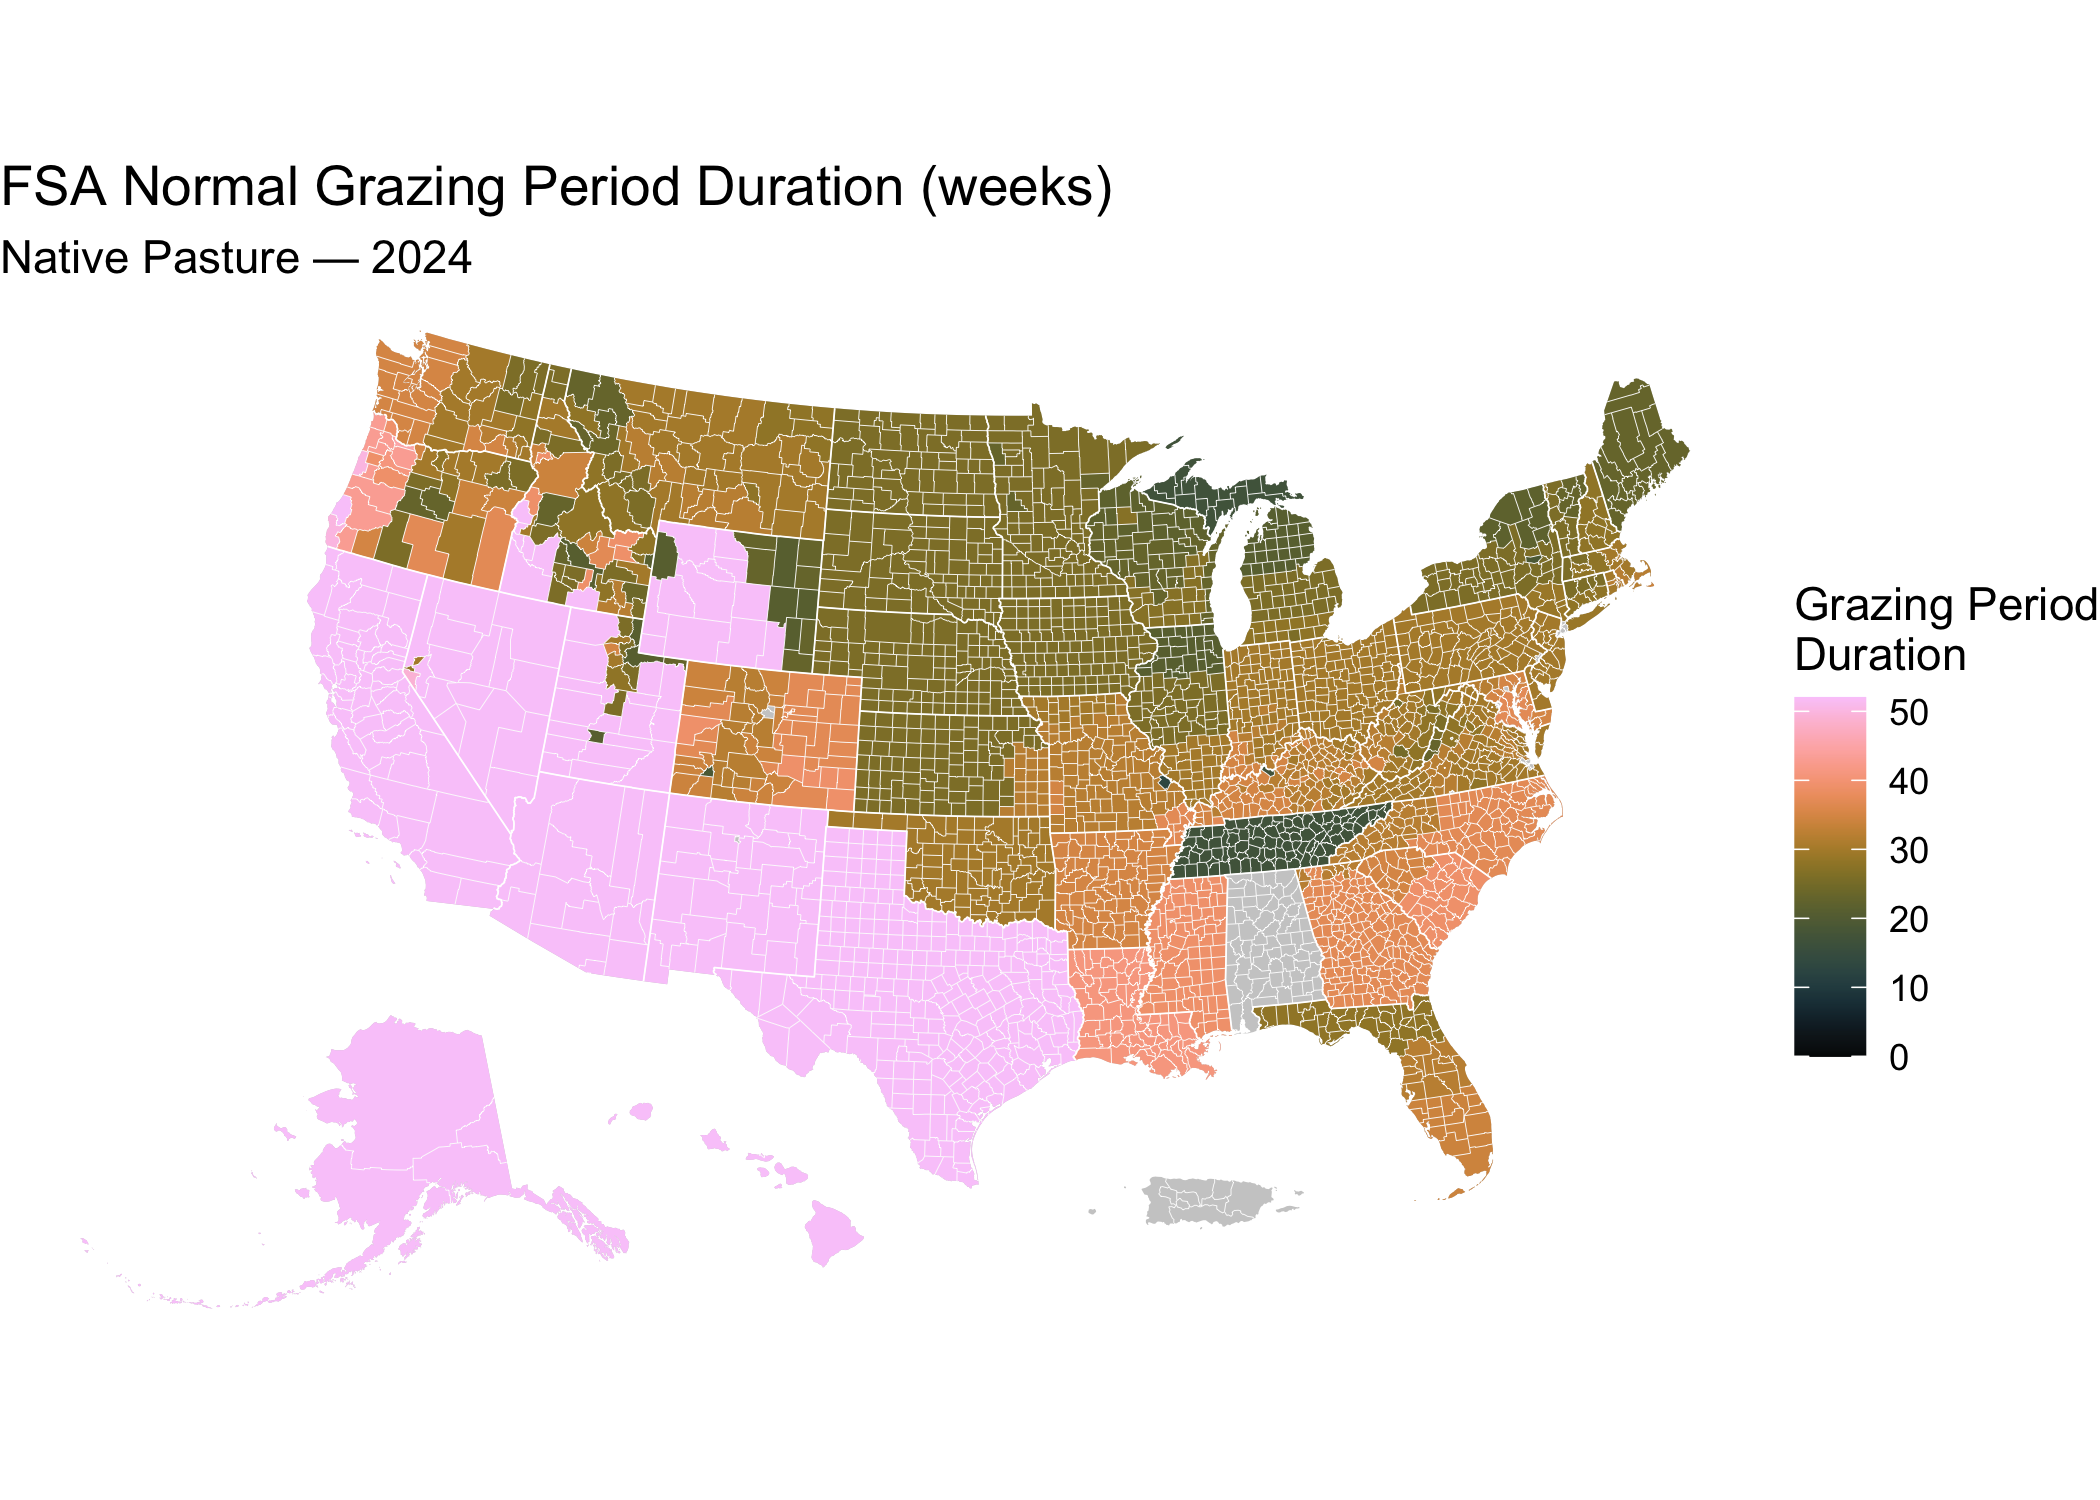
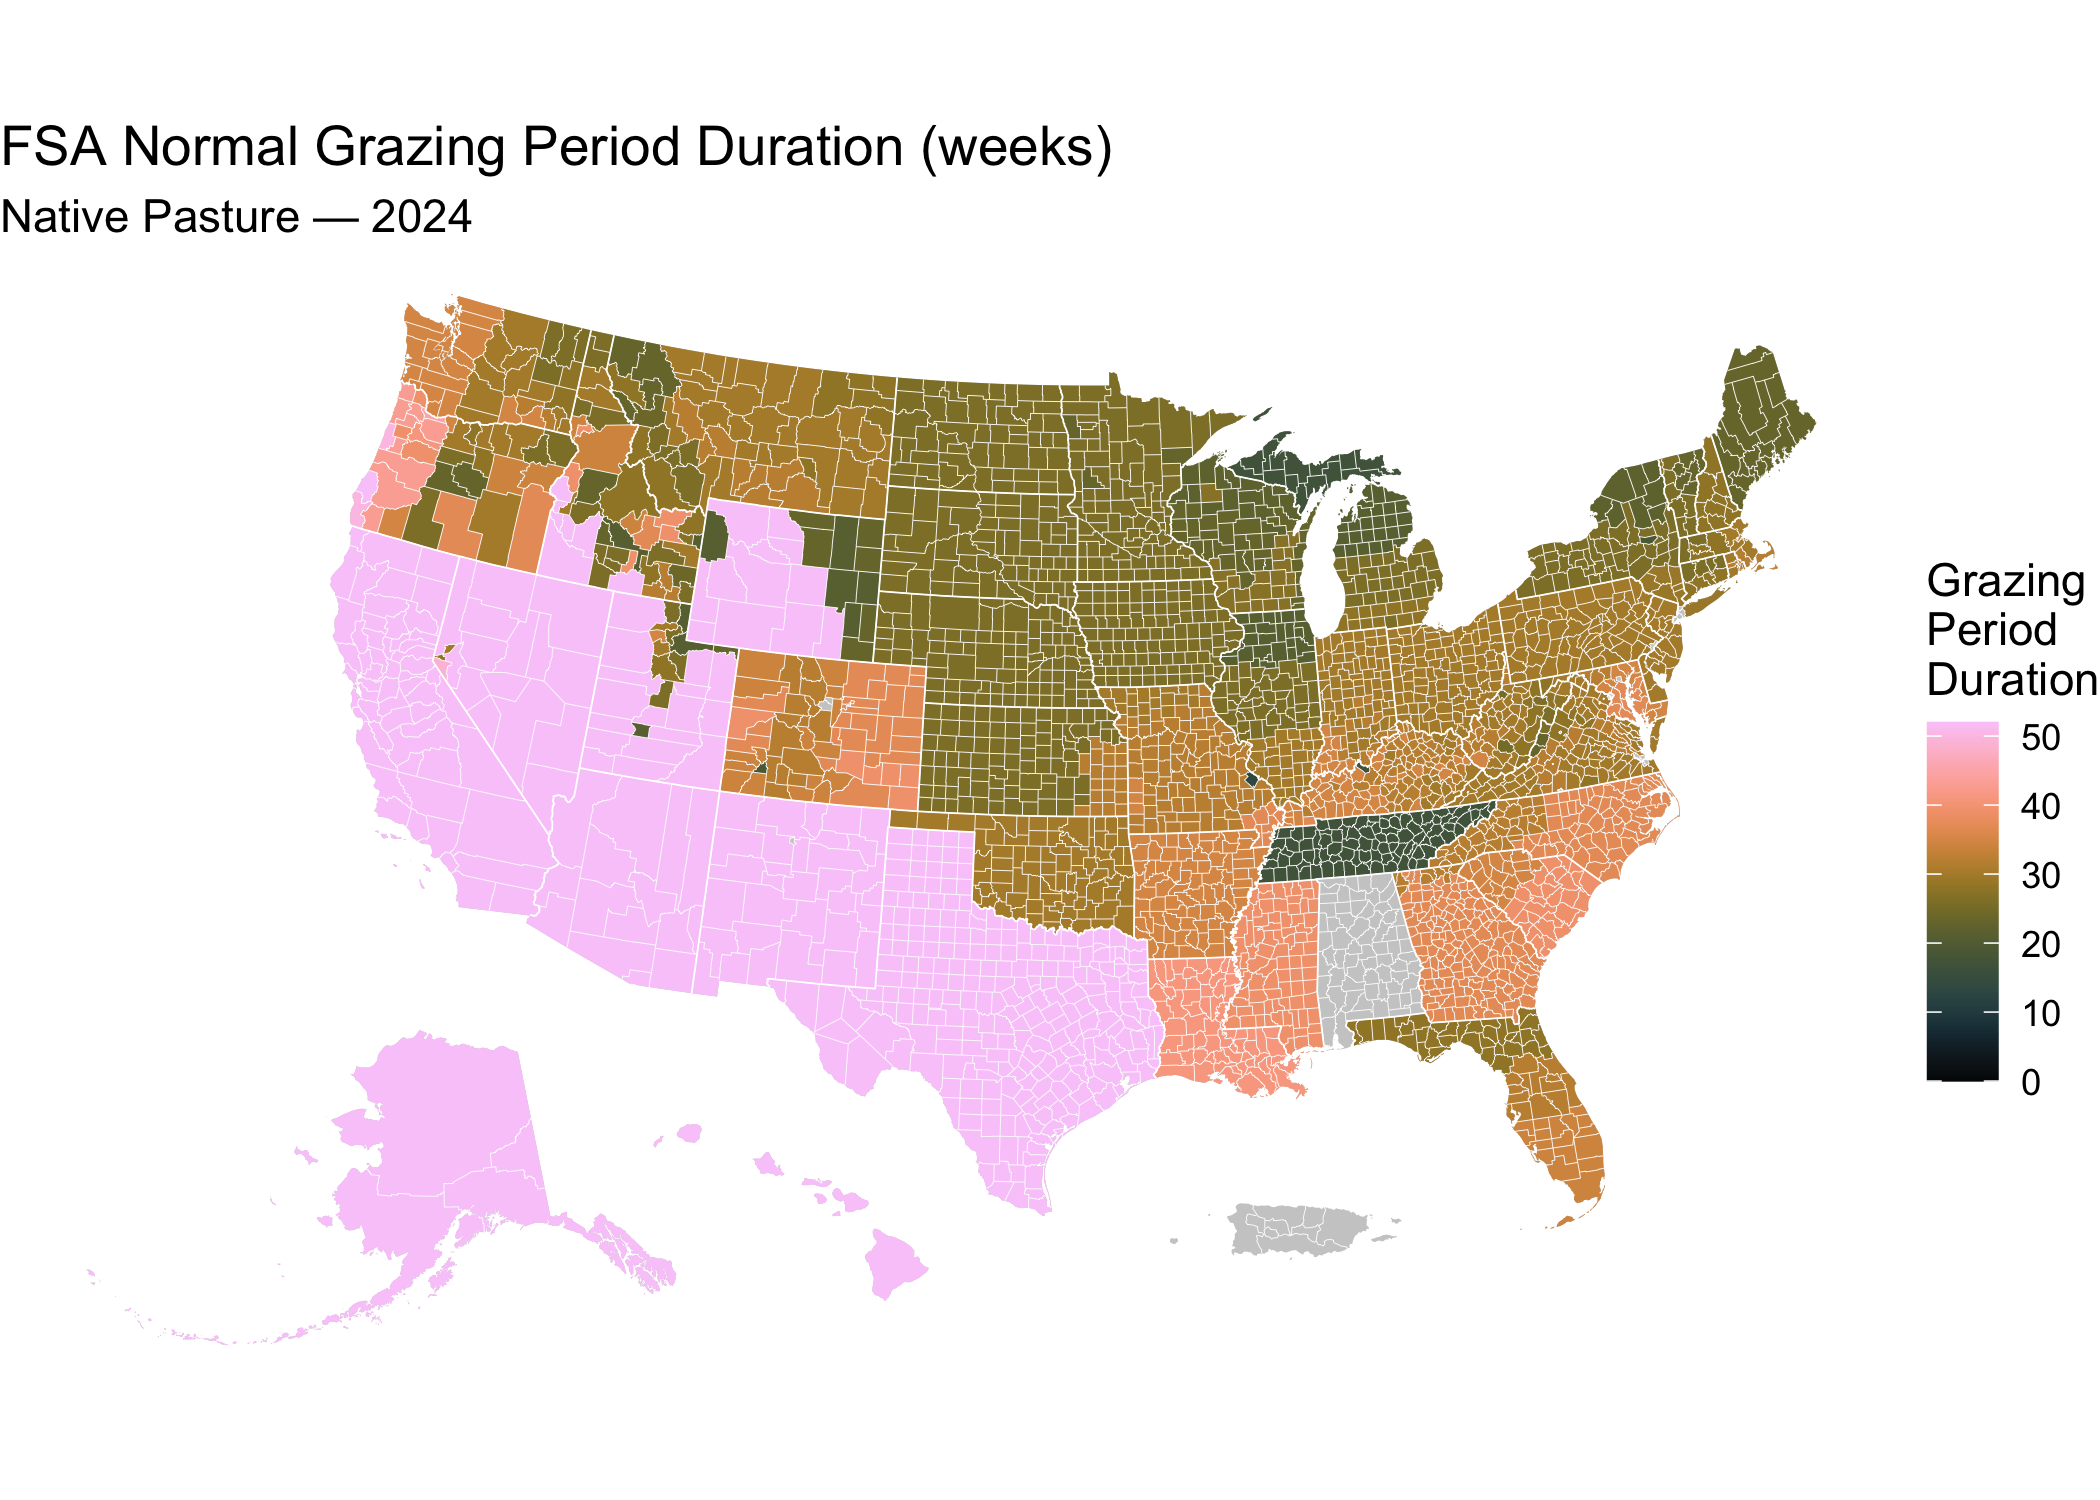
update example

diff --git a/README.md b/README.md
@@ -186,7 +186,7 @@ ggplot(counties) +
           color = "white",
           linewidth = 0.2) +
   khroma::scale_fill_batlowK(limits = c(0,52),
-                            name = "Grazing Period\nDuration") +
+                            name = "Grazing\nPeriod\nDuration") +
   labs(title = "FSA Normal Grazing Period Duration (weeks)",
        subtitle = "Native Pasture — 2024") +
   theme_void()